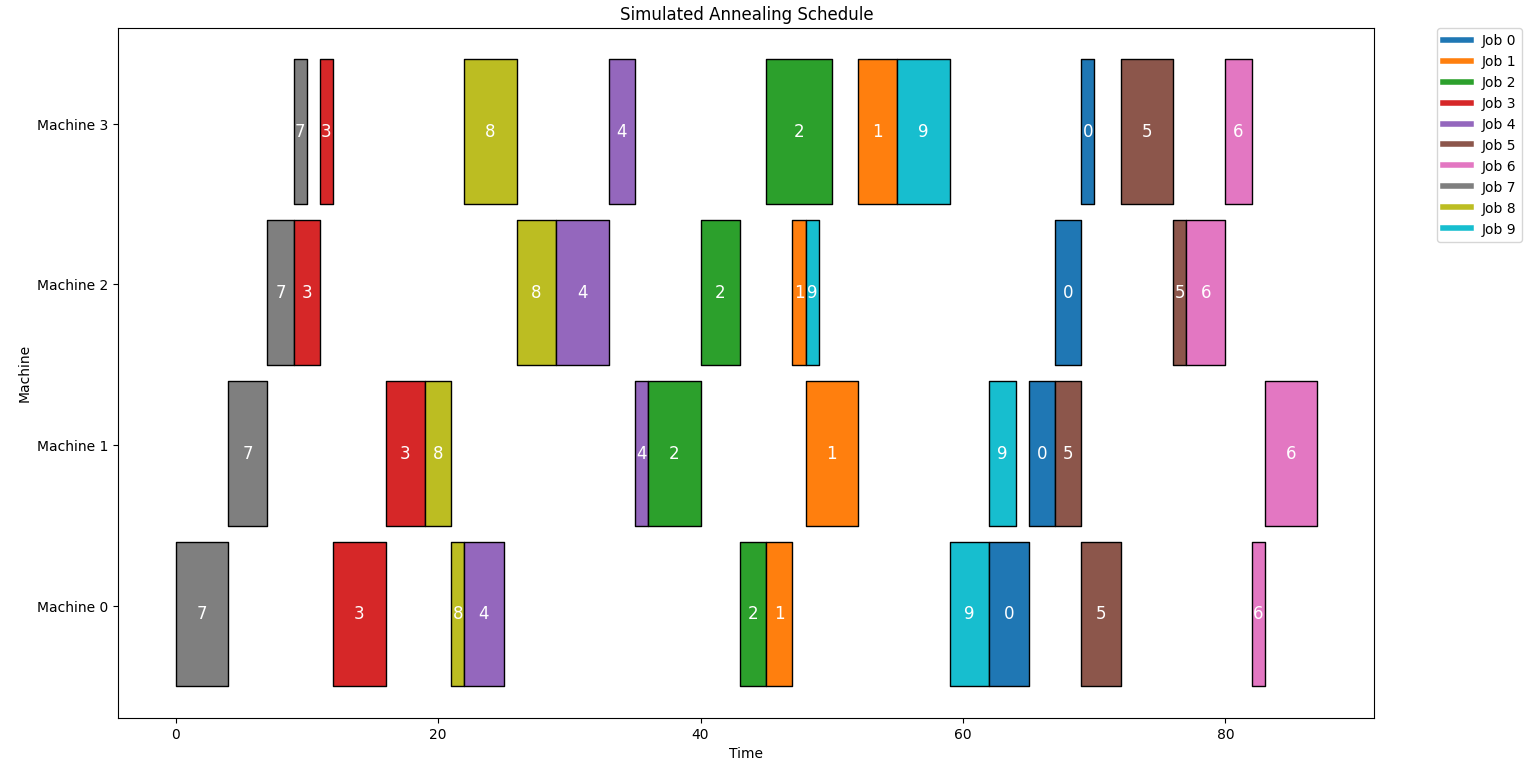
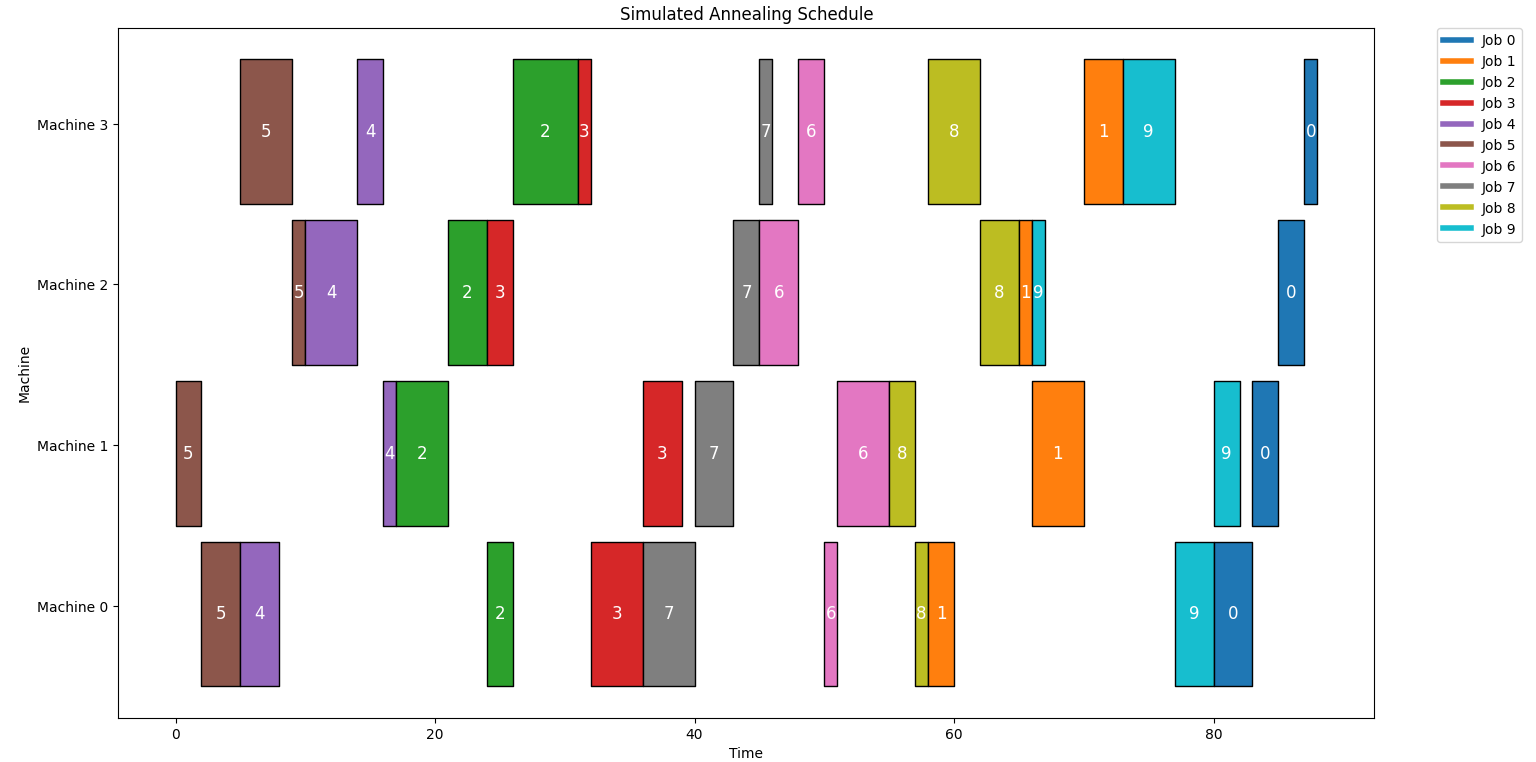
Add files via upload

diff --git a/Overleaf - Práctica 02 IA Fundamentals/main.tex b/Overleaf - Práctica 02 IA Fundamentals/main.tex
@@ -189,7 +189,7 @@ La probabilidad de aceptación sería:
         \end{itemize}
     \end{enumerate}
 
-\section{Especificación del Problema}
+\section{Caso 1}
 En este apartado se presenta un caso en específico. Se plantea la tarea de organizar y secuenciar 10 trabajos distintos, cada uno compuesto por una serie de operaciones que deben ser realizadas en 4 máquinas diferentes. Cada trabajo debe pasar por todas las máquinas, y cada máquina realiza una operación específica en un tiempo determinado. Las operaciones están detalladas en una matriz donde cada elemento indica en qué máquina se realizará la operación y cuánto tiempo tomará. 
 
 \begin{table}[H]
@@ -214,11 +214,10 @@ En este apartado se presenta un caso en específico. Se plantea la tarea de orga
 \label{tabla:matriz-trabajos}
 \end{table}
 
-
 Por ejemplo, el primer trabajo tiene cuatro operaciones que se realizan en las siguientes máquinas y tiempos:
 
 \begin{multicols}{2}
-    
+
 \begin{itemize}
  \item Máquina 0: 3 unidades de tiempo
  \item Máquina 1: 2 unidades de tiempo
@@ -228,29 +227,28 @@ Por ejemplo, el primer trabajo tiene cuatro operaciones que se realizan en las s
 
 \end{multicols} 
 
-El objetivo principal de este problema es minimizar el tiempo total necesario para completar todos los trabajos, conocido como makespan. Esto implica encontrar una secuencia óptima en la que los trabajos deben ser procesados en las diferentes máquinas para que el último trabajo se complete en el menor tiempo posible. Para lograr esto, se debe considerar las restricciones de orden de las operaciones dentro de cada trabajo, así como los conflictos que surgen cuando varios trabajos requieren la misma máquina al mismo tiempo. La meta es desarrollar un cronograma eficiente que minimice los tiempos de espera y maximice la utilización de las máquinas, reduciendo así el makespan. Tal y como se mencionó en el apartado anterior, para abordar este problema se aplicarán las técnicas Hill Climbing y Simulated Annealing. 
-
-\section{Resultados}
-
-En este apartado se presentan y analizan los resultados obtenidos al ejecutar los algoritmos de programación implementados para resolver el problema de Job Shop Scheduling. Los métodos empleados incluyen Hill Climbing y Recocido Simulado, cuyas soluciones se evaluarán en términos de makespan y se visualizarán mediante gráficos de Gantt para una mejor interpretación de la asignación de tareas a las máquinas.
+\noindent  El objetivo principal de este problema es minimizar el tiempo total necesario para completar todos los trabajos, conocido como makespan. Esto implica encontrar una secuencia óptima en la que los trabajos deben ser procesados en las diferentes máquinas para que el último trabajo se complete en el menor tiempo posible. Para lograr esto, se debe considerar las restricciones de orden de las operaciones dentro de cada trabajo, así como los conflictos que surgen cuando varios trabajos requieren la misma máquina al mismo tiempo. La meta es desarrollar un cronograma eficiente que minimice los tiempos de espera y maximice la utilización de las máquinas, reduciendo así el makespan. Tal y como se mencionó en el apartado anterior, para abordar este problema se aplicarán las técnicas Hill Climbing y Simulated Annealing. 
 
 \subsection{Hill Climbing}
 
 \begin{figure}[H]
   \centering
   \includegraphics[width=\linewidth]{graphs/Hill Climbing sol.png}
+  \caption{Caso 1, Corrida del código usando Hill Climbing}
   \label{fig:miImagen}
 \end{figure}
 
-\noindent  La solución obtenida utilizando el algoritmo de Hill Climbing presenta una secuencia de trabajos organizada en función del tiempo total requerido por cada uno, comenzando con el trabajo 7 y terminando con el trabajo 0. El makespan obtenido es de 90 unidades de tiempo, lo que indica el tiempo total necesario para completar todos los trabajos en la secuencia determinada.
+\noindent La solución obtenida mediante el algoritmo de Hill Climbing presenta una secuencia específica de trabajos. Esta secuencia comienza con el trabajo 7 y concluye con el trabajo 0, logrando un makespan de 90 unidades de tiempo. En términos de tiempo de ejecución, el algoritmo de Hill Climbing se ejecutó en 0.03 segundos, aproximadamente.
 
 \vspace{1em} % Esto añade un espacio vertical de 1em entre los párrafos
-\noindent  La Figura 1 presenta el gráfico de Gantt. Se observa que cada trabajo está representado por un bloque de color único en el gráfico, mostrando sus operaciones secuenciales en diferentes máquinas. La secuencia de trabajos en el gráfico sigue el orden determinado por el algoritmo de Hill Climbing, empezando con el trabajo 7 y terminando con el trabajo 0. Esto indica que el trabajo 7 tiene la mayor prioridad, seguido por el trabajo 1, y así sucesivamente. En relación a la utilización de cada máquina, se observa que las máquinas están ocupadas durante casi todo el tiempo, con mínimos periodos de inactividad, lo que indica una alta eficiencia en la programación de tareas. Sin embargo, a pesar de la alta utilización de las máquinas, la solución presenta un makespan relativamente alto de 90 unidades de tiempo, lo que sugiere que la secuencia de trabajos podría no ser óptima. Los tiempos de espera entre operaciones dentro de un mismo trabajo pueden estar contribuyendo significativamente a este makespan elevado. Además, el algoritmo Hill Climbing puede quedar atrapado en óptimos locales, limitando su capacidad para encontrar la solución más eficiente. Por lo tanto, aunque la solución muestra una distribución eficiente de las operaciones, existen oportunidades para mejorar el makespan explorando secuencias alternativas o utilizando algoritmos más sofisticados que puedan superar las limitaciones del Hill Climbing.
+\noindent La Figura 2 presenta un diagrama de Gantt que ilustra el algoritmo de Hill Climbing. En este diagrama, cada trabajo está representado por un bloque de color distinto, mostrando sus operaciones secuenciales en diversas máquinas. El orden de los trabajos en el gráfico sigue la secuencia determinada por el algoritmo de Hill Climbing, comenzando con el trabajo 7 y terminando con el trabajo 0. Esta representación visual muestra cómo se distribuyen las operaciones a lo largo del tiempo, resultando en un makespan de 90 unidades de tiempo.
+
+\noindent La utilización de cada máquina es variada, con algunos periodos de inactividad presentes. A pesar de esto, la estrategia de Hill Climbing busca optimizar el makespan mediante mejoras locales y deterministas. 
 
 \begin{figure}[H]
 \centering
 \includegraphics[width=\linewidth]{graphs/Hill Climbing graph.png}
-\caption{Gráfico de Gantt para la Solución Obtenida con Hill Climbing}
+\caption{Caso 1, Gráfico de Gantt para la Solución Obtenida con Hill Climbing}
 \label{fig:miImagen}
 \end{figure}
 
@@ -259,46 +257,106 @@ En este apartado se presentan y analizan los resultados obtenidos al ejecutar lo
 \begin{figure}[H]
   \centering
   \includegraphics[width=\linewidth]{graphs/Simulated Annealing sol.png}
+\caption{Caso 1, Corrida del código usando Simulated Annealing}
   \label{fig:miImagen}
 \end{figure}
 
-\noindent La solución obtenida utilizando el algoritmo de Simulated Annealing presenta una secuencia de trabajos diferente, organizada de manera que se exploran más combinaciones posibles debido a la naturaleza estocástica del algoritmo. Esta solución comienza con el trabajo 3 y termina con el trabajo 1. El makespan obtenido es de 87 unidades de tiempo, lo que indica una mejora respecto a la solución obtenida con Hill Climbing.
+\noindent La solución obtenida mediante el algoritmo de Simulated Annealing presenta una secuencia específica de trabajos. Esta secuencia comienza con el trabajo 5 y concluye con el trabajo 0, logrando un makespan de 88 unidades de tiempo. En términos de tiempo de ejecución, el algoritmo de Simulated Annealing se ejecutó en aproximadamente 0.0197 segundos.
 
 \vspace{1em} % Esto añade un espacio vertical de 1em entre los párrafos
-\noindent La Figura 2 presenta el gráfico de Gantt correspondiente. En este gráfico, cada trabajo está representado por un bloque de color único, mostrando sus operaciones secuenciales en diferentes máquinas. La secuencia de trabajos en el gráfico sigue el orden determinado por el algoritmo de Simulated Annealing, comenzando con el trabajo 3 y terminando con el trabajo 1. Esta secuencia permite una mejor distribución de las operaciones, lo que se refleja en el menor makespan. La utilización de cada máquina es alta, con periodos de inactividad mínimos, similar a lo observado con Hill Climbing. Sin embargo, el algoritmo de Simulated Annealing permite aceptar temporalmente soluciones subóptimas para escapar de óptimos locales, lo que resulta en una mejor exploración del espacio de soluciones. Esto se traduce en una distribución más equilibrada de las tareas y una reducción en los tiempos de espera entre operaciones de un mismo trabajo. 
+\noindent La Figura 4 presenta un diagrama de Gantt que ilustra el algoritmo de Simulated Annealing. En este diagrama, cada trabajo está representado por un bloque de color distinto, mostrando sus operaciones secuenciales en diversas máquinas. El orden de los trabajos en el gráfico sigue la secuencia determinada por el algoritmo de Simulated Annealing, comenzando con el trabajo 5 y terminando con el trabajo 0. Esta representación visual muestra cómo se distribuyen las operaciones a lo largo del tiempo, resultando en un makespan de 88 unidades de tiempo.
+
+\noindent La utilización de cada máquina es variada, con algunos periodos de inactividad presentes. A pesar de esto, la estrategia de Simulated Annealing permite aceptar temporalmente soluciones subóptimas para escapar de óptimos locales, lo que resulta en una mejor exploración del espacio de soluciones y una distribución más equilibrada de las tareas. 
 
 \begin{figure}[H]
 \centering
 \includegraphics[width=\linewidth]{graphs/Simulated Annealing graph.png}
-\caption{Gráfico de Gantt para la Solución Obtenida con Simulated Annealing}
+\caption{Caso 1, Gráfico de Gantt para la Solución Obtenida con Simulated Annealing}
 \label{fig:miImagen}
 \end{figure}
 
-En este sentido, se observa que, aunque ambas soluciones muestran una alta eficiencia en la utilización de máquinas, la solución de Recocido Simulado es superior al lograr un makespan menor. Este resultado destaca la ventaja del Recocido Simulado en encontrar soluciones más cercanas al óptimo global al equilibrar la exploración y la explotación del espacio de soluciones.
+\subsection{Comparación de los Modelos} 
+\begin{itemize}
+\item El algoritmo de Hill Climbing obtiene un makespan de 90 unidades de tiempo, mientras que el Simulated Annealing logra un makespan de 88 unidades de tiempo. Esto indica que, en este caso específico, Simulated Annealing encuentra una solución ligeramente más eficiente en términos de makespan.
+\item Hill Climbing se ejecuta en aproximadamente 0.03 segundos, destacándose por su rapidez debido a su naturaleza determinista; sin embargo, el modelo Simulated Annealing se ejecuta en aproximadamente 0.01 segundos, siendo también rápido, pero ligeramente más eficiente en términos de tiempo de ejecución en este caso particular.
+\end{itemize}
+
+
+\section{Caso 2}
+Para el segundo caso, se generará una matriz aleatoria de 60x60, en donde se plantean 60 trabajos distintos y 60 máquinas diferentes. Al igual que el Caso 1, se busca minimizar el makespan.   
+
+\subsection{Hill Climbing}
+\begin{figure}[H]
+  \centering
+  \includegraphics[width=\linewidth]{graphs/Hill Climbing sol c2.png}
+  \caption{Caso 2, Corrida del código usando Hill Climbing}
+  \label{fig:miImagen}
+\end{figure}
+
+\noindent Como se observa en la Figura 5, el makespan usando el modelo Hill Climbing es de 1080, con un tiempo de ejecución de 41.8 segundos, aproximadamente.
+
+\subsection{Simulated Annealing}
+\begin{figure}[H]
+  \centering
+  \includegraphics[width=\linewidth]{graphs/Simulated Annealing sol c2.png}
+  \caption{Caso 2, Corrida del código usando Simulated Annealing}
+  \label{fig:miImagen}
+\end{figure}
+
+\noindent Como se observa en la Figura 6, el makespan usando el modelo Simulated Annealing es de 964, con un tiempo de ejecución de 0.29 segundos, aproximadamente.
+
+\subsection{Comparación de los Modelos} 
+\begin{itemize}
+\item El modelo de Simulated Annealing logró un makespan de 964, que es considerablemente menor que el makespan de 1080 obtenido con Hill Climbing. Esto indica que Simulated Annealing encontró una secuencia de trabajos más eficiente, reduciendo el tiempo total necesario para completar todos los trabajos.
+\item En términos de tiempo de ejecución, Simulated Annealing fue más rápido, con un tiempo de ejecución de aproximadamente 0.29 segundos, en comparación con los 41.8 segundos de Hill Climbing.
+\end{itemize}
+
+\section{Caso 3}
+Para el tercer caso, se generará una matriz aleatoria de 100x100, en donde se plantean 100 trabajos distintos y 100 máquinas diferentes. Al igual que el Caso 1 y 2, se busca minimizar el makespan. 
+
+\subsection{Hill Climbing}
+\begin{figure}[H]
+  \centering
+  \includegraphics[width=\linewidth]{graphs/Hill Climbing sol c3.png}
+  \caption{Caso 3, Corrida del código usando Hill Climbing}
+  \label{fig:miImagen}
+\end{figure}
+
+\noindent Como se observa en la Figura 7, el makespan usando el modelo Hill Climbing es de 1868 unidades de tiempo, con un tiempo de ejecución de 639.24 segundos, aproximadamente.
+
+\subsection{Simulated Annealing}
+\begin{figure}[H]
+  \centering
+  \includegraphics[width=\linewidth]{graphs/Simulated Annealing sol c3.png}
+  \caption{Caso 3, Corrida del código usando Simulated Annealing}
+  \label{fig:miImagen}
+\end{figure}
+
+\noindent Como se observa en la Figura 8, el makespan usando el modelo Simulated Annealing es de 1613, con un tiempo de ejecución de 1.29 segundos, aproximadamente.
+
+\subsection{Comparación de los Modelos} 
+\begin{itemize}
+\item El modelo de Simulated Annealing logró un makespan de 1613, que es considerablemente menor que el makespan de 1868 obtenido con Hill Climbing. Esto indica que Simulated Annealing encontró una secuencia de trabajos más eficiente, reduciendo el tiempo total necesario para completar todos los trabajos.
+\item En términos de tiempo de ejecución, Simulated Annealing fue extremadamente más rápido, con un tiempo de ejecución de aproximadamente 1.29 segundos, en comparación con los 639.24 segundos de Hill Climbing.
+\end{itemize}
 
 \section{Conclusiones}
 
-En este estudio se abordó el problema de programación de talleres flexibles (JSP) utilizando dos algoritmos de optimización: Hill Climbing y Simulated Annealing. A través de la implementación y análisis de ambos métodos, se obtuvieron soluciones para la secuenciación y asignación de trabajos en múltiples máquinas, con el objetivo de minimizar el tiempo total necesario para completar todos los trabajos, conocido como makespan.
-
-\vspace{1em}
-\noindent Los resultados mostraron que:
+En este estudio se evaluaron dos algoritmos de optimización, Hill Climbing y Simulated Annealing, aplicados a problemas de Job Shop Scheduling con diferentes escalas de trabajo. A través de la implementación y análisis de estos algoritmos en tres casos específicos, se lograron las siguientes conclusiones:
 
 \begin{itemize}
-    \item El algoritmo Hill Climbing, aunque eficiente en la asignación de tareas a las máquinas, tiende a quedar atrapado en óptimos locales, lo que limita su capacidad para encontrar la solución más eficiente. La solución obtenida con este método presentó un makespan de 90 unidades de tiempo.
-    \item El algoritmo de Simulated Annealing, por su parte, demostró una mayor capacidad para explorar el espacio de soluciones al aceptar temporalmente soluciones subóptimas. Esto permitió escapar de los óptimos locales y encontrar una mejor secuencia de operaciones, resultando en un makespan de 87 unidades de tiempo, que es inferior al obtenido con Hill Climbing.
+\item \textbf{Desempeño de Simulated Annealing vs Hill Climbing:} En los tres casos, Simulated Annealing demostró ser superior a Hill Climbing en términos de makespan y tiempo de ejecución. 
+
+\item \textbf{Eficiencia Computacional:} Simulated Annealing no solo logró un menor makespan en todos los casos, sino que también fue más eficiente en términos de tiempo de ejecución. En el Caso 1, el tiempo de ejecución fue de 0.0197 segundos frente a 0.03 segundos de Hill Climbing. En el Caso 2, Simulated Annealing se ejecutó en 0.29 segundos, mientras que Hill Climbing tomó 41.8 segundos. Finalmente, en el Caso 3, Simulated Annealing tuvo un tiempo de ejecución de 1.29 segundos comparado con los 639.24 segundos de Hill Climbing. Esto resalta la eficiencia computacional de Simulated Annealing, especialmente en problemas de mayor escala.
+
+\item \textbf{Escalabilidad:} Los resultados del Caso 2 y Caso 3, que involucraron matrices de 60x60 y 100x100 respectivamente, evidencian que Simulated Annealing maneja mejor los problemas de gran escala, manteniendo un rendimiento óptimo tanto en makespan como en tiempo de ejecución. Hill Climbing, por otro lado, presentó mayores dificultades y tiempos de ejecución significativamente más altos a medida que aumentaba la escala del problema.
+
+\item \textbf{Aplicabilidad en Problemas Reales:} Dado que el objetivo principal en problemas de Job Shop Scheduling es minimizar el makespan, Simulated Annealing se presenta como una herramienta más robusta y confiable para abordar problemas similares en entornos industriales y de manufactura. La capacidad de obtener soluciones eficientes en tiempos de ejecución cortos es crucial en aplicaciones prácticas donde los recursos y el tiempo son limitados.
 \end{itemize}
-
-\noindent Ambos métodos mostraron una alta utilización de las máquinas con periodos mínimos de inactividad, lo que refleja una programación eficiente. Sin embargo, la solución de Simulated Annealing superó a la de Hill Climbing al lograr una mejor distribución de las operaciones y reducir los tiempos de espera entre ellas.
-
-\vspace{1em}
-\noindent En conclusión, aunque Hill Climbing es un método sencillo y rápido, el Simulated Annealing demostró ser más eficaz para este tipo de problemas, proporcionando soluciones de mayor calidad al explorar más combinaciones posibles. Para futuros trabajos, se sugiere explorar la combinación de ambos métodos o la aplicación de otros algoritmos de optimización, como los algoritmos genéticos o técnicas de inteligencia artificial, para mejorar aún más los resultados obtenidos y acercarse al óptimo global del problema.
-
 
 
 \bibliographystyle{apacite} 
 \bibliography{referencias.bib}
-
-
 
 
 \end{document}
